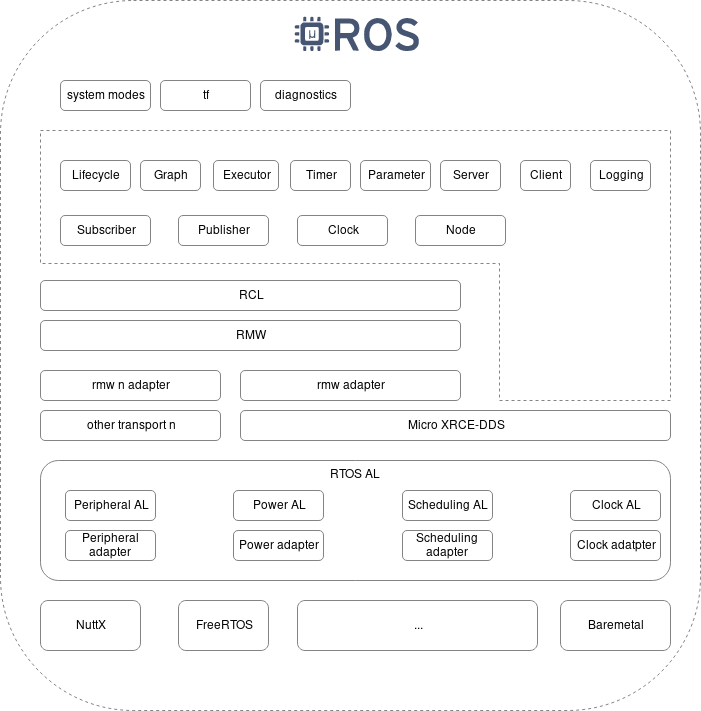
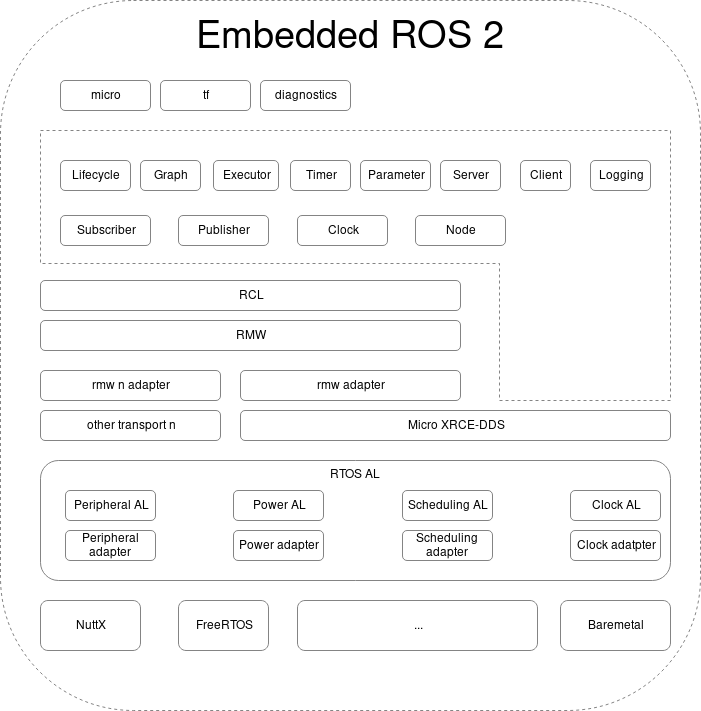
Updates architecture diagram. Fixes ARM processor name.

Changed region(s): [[0.2696, 0.0, 0.719, 0.0928], [0.0899, 0.1238, 0.2097, 0.1547]]

diff --git a/articles/embedded.md b/articles/embedded.md
@@ -17,7 +17,7 @@ author: 'In alphabetic order: [Adam Dąbrowski](https://github.com/adamdbrw), [B
 
 Original Author: {{ page.author }}
 
-While standard ROS 2 can run on Linux-class embedded devices, smaller microcontrollers (MCU) are still a challenge. For example, ARM Cortex-M3 and -M4 class MCUs are popular for motion control and sensor integration, but have little RAM and storage. ARM Cortex-L1 is widely used in many sensors due to its optimized power consumption capabilities and ultra low power modes. These microcontrollers are often running with small batteries, e.g. for environmental sensors or small consumer robots, which requires efficient power management. We aim to address these devices through a combination of specialized, ROS 2-interoperable stack as well as the use of small Real-Time Operating Systems (RTOS).
+While standard ROS 2 can run on Linux-class embedded devices, smaller microcontrollers (MCU) are still a challenge. For example, ARM Cortex-M3 and -M4 class MCUs are popular for motion control and sensor integration, but have little RAM and storage. ARM Cortex-M3 is widely used in many sensors due to its optimized power consumption capabilities and ultra low power modes. These microcontrollers are often running with small batteries, e.g. for environmental sensors or small consumer robots, which requires efficient power management. We aim to address these devices through a combination of specialized, ROS 2-interoperable stack as well as the use of small Real-Time Operating Systems (RTOS).
 
 This article documents requirements, design ideas and related works on this undertaking.
 
